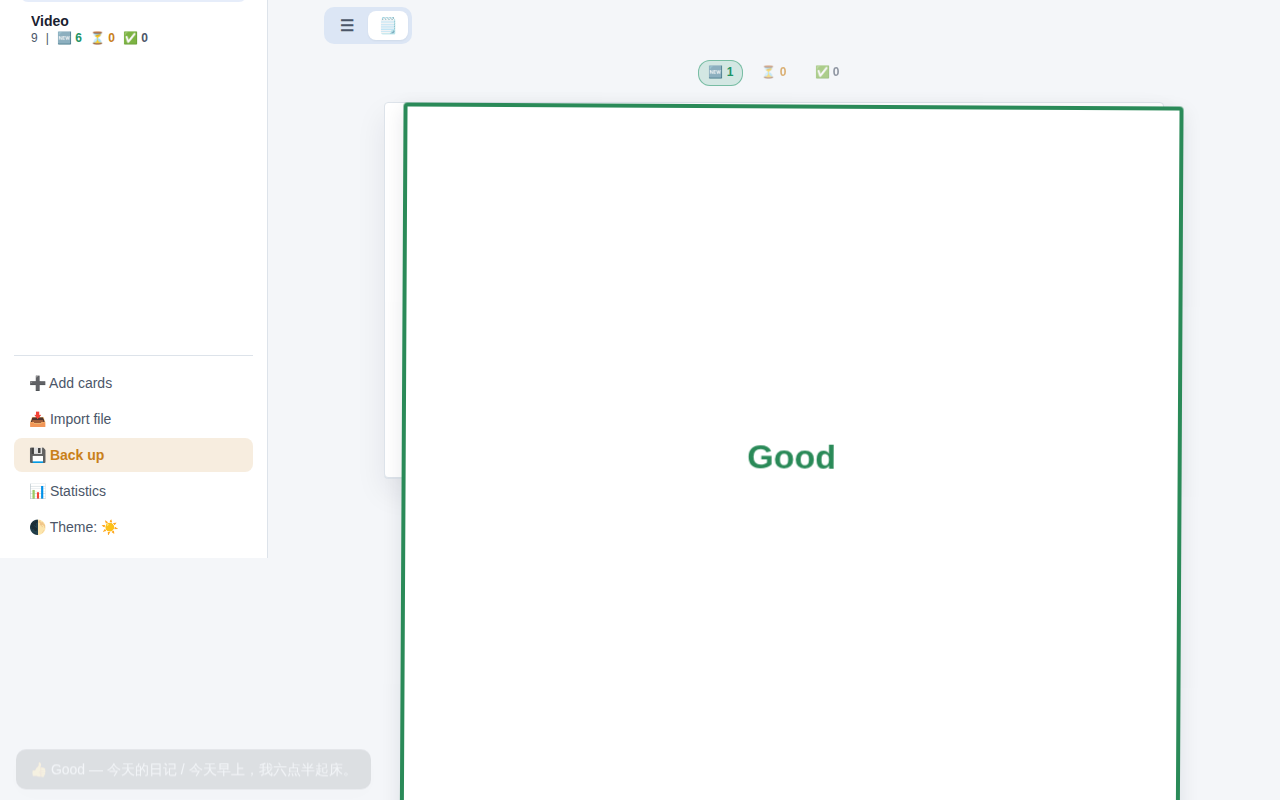
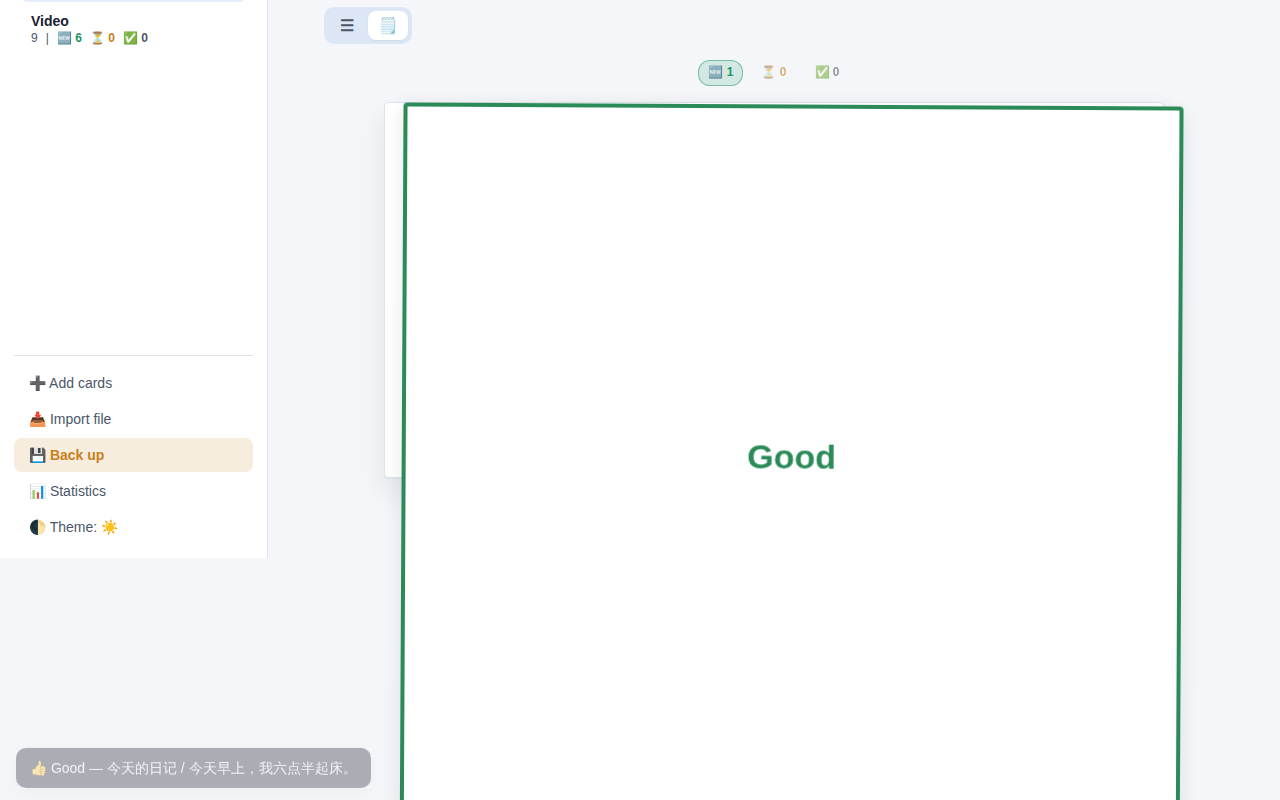
Playing card spotlit instead of a strip; green iMessage bubbles in Vocabulary
- Group and Listening: the card that plays keeps its colours and the
  others fade back, instead of a coloured strip behind it
- Vocabulary group answers use iMessage's green bubble, Lessons keep blue

Claude-Session: https://claude.ai/code/session_014V8q72mFTe1AjYmi4UdURH

Changed region(s): [[0.0, 0.9375, 0.3125, 1.0]]

diff --git a/index.html b/index.html
@@ -68,6 +68,7 @@ window.onYouTubeIframeAPIReady = function(){
     --imsg-in:#e9e9eb;
     --imsg-in-text:#000;
     --imsg-out:#0b84fe;
+    --imsg-sms:#34c759;
     --a-bg:#e9f5ee;
     --a-text:#1b6b44;
     --a-label:#2a8a58;
@@ -116,6 +117,7 @@ window.onYouTubeIframeAPIReady = function(){
       --imsg-in:#3b3b3d;
       --imsg-in-text:#fff;
       --imsg-out:#0a84ff;
+      --imsg-sms:#30d158;
       --a-bg:#1a2b25;
       --a-text:#8fdcb2;
       --a-label:#5ec893;
@@ -158,6 +160,7 @@ window.onYouTubeIframeAPIReady = function(){
     --imsg-in:#3b3b3d;
     --imsg-in-text:#fff;
     --imsg-out:#0a84ff;
+    --imsg-sms:#30d158;
     --a-bg:#1a2b25;
     --a-text:#8fdcb2;
     --a-label:#5ec893;
@@ -690,16 +693,16 @@ window.onYouTubeIframeAPIReady = function(){
   :is(#cardTable, #vocabTable).chat{display:block;padding:20px;overflow:visible;}
   :is(#cardTable, #vocabTable).chat :is(colgroup, thead){display:none;}
   :is(#cardTable, #vocabTable).chat tbody{display:flex;flex-direction:column;gap:10px;}
-  :is(#cardTable, #vocabTable).chat tbody tr{display:flex;flex-direction:column;gap:10px;padding:10px;border-radius:var(--radius);background:none;transition:background .15s ease;}
-  :is(#cardTable, #vocabTable).chat tbody tr.row-playing{background:var(--row-playing) !important;}
-  html.touch :is(#cardTable, #vocabTable).chat tbody tr.row-selected{background:var(--row-playing);}
+  :is(#cardTable, #vocabTable).chat tbody tr{display:flex;flex-direction:column;gap:10px;padding:10px;border-radius:var(--radius);transition:opacity .2s ease;}
+  :is(#cardTable, #vocabTable).chat tbody tr, :is(#cardTable, #vocabTable).chat tbody tr.row-playing, html.touch :is(#cardTable, #vocabTable).chat tbody tr.row-selected{background:none !important;}
+  :is(#cardTable, #vocabTable).chat tbody:has(tr.row-playing) tr:not(.row-playing, .edit-row), html.touch :is(#cardTable, #vocabTable).chat tbody:has(tr.row-selected) tr:not(.row-selected, .row-playing, .edit-row){opacity:.4;}
   html.touch :is(#cardTable, #vocabTable).chat tbody tr.row-selected > td:first-child{box-shadow:none;}
   :is(#cardTable, #vocabTable).chat tbody td{display:flex;border:0;padding:0;overflow:visible;}
   :is(#cardTable, #vocabTable).chat tbody td.a-col{justify-content:flex-end;}
   :is(#cardTable, #vocabTable).chat tbody tr.edit-row{display:block;padding:0;}
   :is(#cardTable, #vocabTable).chat tbody tr.edit-row td{display:block;}
   :is(#cardTable, #vocabTable).chat{--chat-bg:var(--surface);}
-  :is(#cardTable, #vocabTable).chat tbody tr.row-playing, html.touch :is(#cardTable, #vocabTable).chat tbody tr.row-selected{--chat-bg:var(--row-playing);}
+  #vocabTable.chat{--imsg-out:var(--imsg-sms);}
   :is(#cardTable, #vocabTable).chat tbody td.q-col, #vocabTable.chat tbody td:first-child{padding-left:10px;}
   :is(#cardTable, #vocabTable).chat tbody td.a-col{padding-right:10px;}
   :is(#cardTable, #vocabTable).chat .cell{position:relative;display:block;max-width:75%;margin:0;padding:10px 15px;font-size:20px;line-height:1.4;border-radius:20px;background:var(--imsg-in);color:var(--imsg-in-text);}
@@ -909,11 +912,10 @@ window.onYouTubeIframeAPIReady = function(){
   }
   .single-card-body.listen-batch{padding:10px;}
   .single-card-body.listen-batch:not(.edit-row){gap:0;}
-  .listen-pair{position:relative;display:flex;flex-direction:column;align-items:flex-start;justify-content:center;gap:5px;min-height:60px;padding:20px 20px 20px 90px;border-radius:10px;transition:background .15s ease, box-shadow .15s ease;}
+  .listen-pair{position:relative;display:flex;flex-direction:column;align-items:flex-start;justify-content:center;gap:5px;min-height:60px;padding:20px 20px 20px 90px;border-radius:10px;transition:opacity .2s ease;}
   .listen-pair:not(:has(.loop-time)){padding-left:20px;}
   .listen-pair + .listen-pair::before{content:"";position:absolute;top:0;left:90px;right:20px;border-top:1px solid var(--border);}
-  .listen-pair.row-playing{background:var(--accent-soft);box-shadow:0 0 0 4px var(--accent-soft);}
-  .listen-pair.row-playing::before, .listen-pair.row-playing + .listen-pair::before{display:none;}
+  .listen-batch:has(.listen-pair.row-playing) .listen-pair:not(.row-playing){opacity:.4;}
   .listen-batch .listen-pair .single-card-field{position:static;min-height:0;padding:0;background:none;border-radius:0;align-items:flex-start;}
   .listen-batch .listen-pair .cell{padding:0;text-align:left;}
   .listen-batch .listen-pair .single-card-q .cell > .loop-time:first-child{position:absolute;left:20px;top:50%;transform:translateY(-50%);display:flex;align-items:center;justify-content:center;width:50px;height:50px;margin:0;padding:0;border-radius:50%;font-size:12px;font-weight:600;}

diff --git a/README.md b/README.md
@@ -18,8 +18,8 @@ The whole app is one file, `index.html`. There is no build step and nothing to i
 | Mode | What it does |
 | --- | --- |
 | ☰ Full | The whole lesson as a list, for browsing and editing. No spaced repetition. A ＋ bar under the mode buttons (once the lesson has cards; a new, empty lesson shows the add form with its own ＋, and a lesson whose last card is moved or deleted opens Add cards, with the lesson picked, as Vocabulary opens Add vocabularies when its last word goes), in the logo's colour, shows how many cards the lesson has in front of the ＋ (such as 97 ＋) and adds a card at the top of the list (the same as the count and ＋ on the Vocabulary word list, at the same height). In a text lesson, clicking a card (its question or its answer) copies the whole card, question and answer together, in one click, and pointing at either part shades both. In a text lesson the list is a notebook page: white ruled paper with a red margin (on a phone there is no margin line, and the text sits a little further in from both edges), each question as a heading in the lesson colour with its answer written on the lines below, and the editor puts the short question on one line above a large answer box, without a dictionary. No table has a column of ✎, ✕ or 字 buttons, on a computer or a phone, in Lessons or in Vocabulary: point at a card (or select it on a phone) and press E to edit it, Delete to delete it or, in a text lesson, V to move it to Vocabulary, flying off as the logo (on a phone the bar of copy, ✎, ✕ and 字 described below does the same): the question becomes a word, the answer its meaning, and words filed under the card go along; if the sentence is already a word, the card just leaves the lesson. Undo brings it back. In every editor a coloured line starts each box: blue for the question, green for the answer, grey for the notes, and the answer box fits its text. |
-| Group | Due cards three at a time (the last two groups of a session are balanced, so 4 left become 2 + 2), each group listed in video-time order (0:05, 0:10, 0:15), so its clips play like a stretch of the video. Shown in video lessons. The three are laid out as a chat, not a table, in iMessage bubbles: each card's question is a grey bubble on the left (with its time badge) and its answer a blue bubble answering it on the right, each with its small curled tail; a side that is not shown yet is a bubble on one line with ··· (after the time badge on a question), without any animation. The line of the card that is playing (or picked on a phone) is lit up behind its two bubbles. Once a card's answer is shown, its dictionary panel also shows the card's notes under the meaning, in the same size as the notes on a flashcard. Click the notes (tap them on a phone) to edit them right there, like the answer (also tapped on a phone): Return saves, Shift + Return starts a new line, Esc cancels, and undo brings the old notes back. The table of three works the sound as before (▶ plays the group, 1 – 3 loops one row). Under it each sentence has its own dictionary panel, and working in a panel (clicking or selecting in it, clicking its stroke order or its dictionary, editing it) means you are on that one sentence: the sound switches by itself to playing just that sentence over and over, like pressing its number. Since everything in a panel reacts to a click, pointing at its sentence, meaning or notes shows a hand, as everywhere in the app that a click does something; the text cursor appears only inside a box you are typing in. This works every time, not just once: after pressing 1 – 3, Space or ▶ for something else, going back to work in a panel loops that panel's sentence again, and moving to another panel switches to that sentence. The one exception: if you stop the sound altogether (Space, ▶, the sentence's number or its badge in the panel) while working in a panel, it stays quiet as you keep working in that same panel; moving to another panel, or clicking in the table and coming back, plays again. For that case the sentence in each panel starts with the same badge as its row in the table: the video time (1:09), or 🔊 for a card without video. Clicking it loops that sentence, or stops it when it is the one looping, and it lights up while the sentence plays. In the table too, a card without video has 🔊 in front of its question, as in Vocabulary's Group, to read it aloud over and over (click again to stop). |
-| Listening | Cards come in groups, by the same rule as Group (three at a time, the last two balanced, each group in video-time order), all in one card frame laid out like a track list: each card is a line with a round time button on the left (0:05; tap it to play that clip; it fills with the lesson colour and pulses while it plays, and its line is lit up), its question and, under it, its answer in green on the right, both in the same size and plain (not bold) type, the lines divided by thin rules. Before they are shown, the question and the answer are grey bars about as long as the hidden text, with a soft shimmer, so you can tell how much you are listening for. The clips play first, in turn; Space shows all three; each card gets its dictionary panel underneath, the same panel as in Group (the card's time and question, its answer and notes, the stroke order and the dictionary); grading grades all three (or just the card you point at, which then flies off on its own), Delete deletes all three (or the card you point at), E edits the card you point at, and the copy button copies all three. The three stay together until each is graded; a session's last card can come on its own. Shown when the lesson has video cards. |
+| Group | Due cards three at a time (the last two groups of a session are balanced, so 4 left become 2 + 2), each group listed in video-time order (0:05, 0:10, 0:15), so its clips play like a stretch of the video. Shown in video lessons. The three are laid out as a chat, not a table, in iMessage bubbles: each card's question is a grey bubble on the left (with its time badge) and its answer a blue bubble answering it on the right, each with its small curled tail; a side that is not shown yet is a bubble on one line with ··· (after the time badge on a question), without any animation. There is no coloured strip for the card that is playing: its two bubbles stay as they are and the other cards fade back while it plays (on a phone the card you picked stays bright the same way), and its time badge fills with the lesson colour. Once a card's answer is shown, its dictionary panel also shows the card's notes under the meaning, in the same size as the notes on a flashcard. Click the notes (tap them on a phone) to edit them right there, like the answer (also tapped on a phone): Return saves, Shift + Return starts a new line, Esc cancels, and undo brings the old notes back. The table of three works the sound as before (▶ plays the group, 1 – 3 loops one row). Under it each sentence has its own dictionary panel, and working in a panel (clicking or selecting in it, clicking its stroke order or its dictionary, editing it) means you are on that one sentence: the sound switches by itself to playing just that sentence over and over, like pressing its number. Since everything in a panel reacts to a click, pointing at its sentence, meaning or notes shows a hand, as everywhere in the app that a click does something; the text cursor appears only inside a box you are typing in. This works every time, not just once: after pressing 1 – 3, Space or ▶ for something else, going back to work in a panel loops that panel's sentence again, and moving to another panel switches to that sentence. The one exception: if you stop the sound altogether (Space, ▶, the sentence's number or its badge in the panel) while working in a panel, it stays quiet as you keep working in that same panel; moving to another panel, or clicking in the table and coming back, plays again. For that case the sentence in each panel starts with the same badge as its row in the table: the video time (1:09), or 🔊 for a card without video. Clicking it loops that sentence, or stops it when it is the one looping, and it lights up while the sentence plays. In the table too, a card without video has 🔊 in front of its question, as in Vocabulary's Group, to read it aloud over and over (click again to stop). |
+| Listening | Cards come in groups, by the same rule as Group (three at a time, the last two balanced, each group in video-time order), all in one card frame laid out like a track list: each card is a line with a round time button on the left (0:05; tap it to play that clip; it fills with the lesson colour and pulses while it plays, and the other lines fade back, with no coloured strip), its question and, under it, its answer in green on the right, both in the same size and plain (not bold) type, the lines divided by thin rules. Before they are shown, the question and the answer are grey bars about as long as the hidden text, with a soft shimmer, so you can tell how much you are listening for. The clips play first, in turn; Space shows all three; each card gets its dictionary panel underneath, the same panel as in Group (the card's time and question, its answer and notes, the stroke order and the dictionary); grading grades all three (or just the card you point at, which then flies off on its own), Delete deletes all three (or the card you point at), E edits the card you point at, and the copy button copies all three. The three stay together until each is graded; a session's last card can come on its own. Shown when the lesson has video cards. |
 | 🗒 Speaking | Laid out as an exam paper, one question at a time, for speaking practice of any kind: a white ruled sheet headed with the lesson's name, Question 2 of 5 and a clock that runs while you answer out loud; the heading stays in the same place when the answer is shown, so nothing jumps. The question is numbered, in the lesson colour; the ruled lines below it show ···, and the answer comes in two steps, the same with a click (or tap) on the paper, Space, Return or the phone's button (which reads Hint, then Show): the first writes a hint on those lines, the meanings of the lesson's words in the answer, in the order they come, without the words themselves, in the paper's normal ink, numbered with the numbers lined up on the left (the same in Notes); the second writes the answer there. A question without notes skips the hint and shows the answer at once. The clock is not clickable. Before the answer is shown the hint is the only help. A text lesson (the kind studied with Speaking) shows no pinyin or reading when you point at (or tap) its questions and answers, anywhere: not on the Speaking paper and not in the ☰ Full notebook. The answer then comes on the left, with the lesson's words highlighted like a highlighter pen, and a numbered Notes list of those words and meanings on the right, divided from it by a red line; Notes takes only as much width as its lines need (up to a little under half the paper), so short notes leave the answer more room and long ones are not broken over two lines without need, and each note sits a little apart from the next (on a phone, Notes comes under the answer); the clock stops. As in Listening, once the answer is shown it stays until you grade: Space, a click on the paper and the phone's button (greyed out) do nothing more. ← or → grades, as everywhere. The paper takes the normal dark background in the dark theme. Everything the question does elsewhere, the answer does here: once the answer is shown, the foot of the paper, across its whole width under the answer and Notes, shows the stroke order of its characters and the dictionary for it (there is no separate panel; the paper's sections sit 32 px apart and its dictionary is 360 px tall, like the others, the dictionary moves with the page as you scroll, and the dictionaries of the current and next questions load while the question is still showing). Pointing at the answer keeps its ruled lines and shows a hand, since clicking it opens the card editor, as in Listening, and selecting part of the answer on the paper and pressing Shift adds it as a word. On a computer there are no buttons for the card: E edits it, Delete deletes it and V moves it to Vocabulary; on a phone copy, ✎, ✕ and 字 are in the bar above the bottom buttons. A card whose answer is a translation of its question (the two are in different languages) belongs in Vocabulary: when one comes up in Speaking, a box in the middle of the screen says so and offers Move card, Move all (when the lesson has more such cards; they all go at once) or Cancel (Enter moves, Esc cancels; other keys do nothing while it is open); it asks once per card. There is no sound button, and Space does nothing once the answer is shown. In a text lesson the card editor does the same with the answer box: it highlights the words, Shift adds a selected part as a word, and the dictionary under it translates the answer. Shown in lessons without a video; it uses the same spaced repetition as Group. |
 
 In a video lesson the video sits in a player bar as wide as the lesson, fully transparent, also while it is pinned over the cards: the video plays in the small picture on the left, beside its title and a progress bar you can drag with the time and length. Click the picture and the video grows out of it, with a genie effect, into a large player as wide as the lesson, shown in full in every mode (Listening covers only the small picture); the button in its corner shrinks it back into the bar. The bar stays pinned at the top as you scroll; the large player scrolls away with the page while the mode buttons stay pinned, and making it large (with the picture or Y) scrolls the page back up to it. ▶ and the speed beside the mode buttons work as before. The mode buttons have no tooltips.
@@ -86,7 +86,7 @@ Switch from **Lessons** to **Vocabulary** with the 字 button at the top. Words 
 | Mode | What it does |
 | --- | --- |
 | ☰ List | Every word of the lesson, for browsing and editing, without the New, Due and Done counts: the bar at the top shows the number of words and, with ＋, adds a word; point at a word (or tap it on a phone) to see its pinyin or reading, and press E to edit it or Delete to delete it. No grading. |
-| 📑 Group | Due words three at a time, each group in the order of their clips in the video, like Group mode in Lessons and laid out the same way, as a chat in iMessage bubbles: the word in a grey bubble on the left, its meaning in a blue bubble on the right, a side not shown yet as a bubble with ···; shown once the lesson has more than 10 words. Click a word to edit it, tap a row (phone) or point at it (computer) to grade just that word, the YouTube or 🔊 button plays the group's words in turn, and the YouTube or 🔊 mark before each word plays just that word (and turns into ⏸ while it plays). |
+| 📑 Group | Due words three at a time, each group in the order of their clips in the video, like Group mode in Lessons and laid out the same way, as a chat in iMessage bubbles: the word in a grey bubble on the left, its meaning in a green bubble on the right (green like the Vocabulary colour, as iMessage's green bubbles; Lessons use the blue ones), a side not shown yet as a bubble with ···; shown once the lesson has more than 10 words. Click a word to edit it, tap a row (phone) or point at it (computer) to grade just that word, the YouTube or 🔊 button plays the group's words in turn, and the YouTube or 🔊 mark before each word plays just that word (and turns into ⏸ while it plays). |
 | 🗃 Flashcards | One word at a time; tap the card to flip it sideways (except on the stroke order, which you can tap to draw a character again). Front and back are the same size, and the card is only as tall as what is on it (the taller of the two sides, at least 200 px), so it does not leave a lot of empty space; it never grows past what the screen allows: once the toolbar is pinned at the top, at most down to 40 px above the bottom bars (or the bottom of the window), on a phone held upright as on a computer. It refits when the window or the card's content changes (always a whole, even number of pixels), and the page below it ends there too, so there is nothing to scroll down to. The card keeps that size when it turns, so nothing grows or jumps after the flip; if the back ever holds more than fits (very long notes), it scrolls inside the card, starting at the top each time. There is no dictionary on a flashcard: the back holds the sentence the word comes from with the word highlighted and its meaning, the word's notes, and the stroke order, centred on the card, with the same sizes, margins, gaps and highlight as a dictionary panel in Group. On a phone, copy, ✎ and ✕ for the word sit in the bar above the bottom buttons, never on the card; on a computer, E edits and Delete deletes the word. The next word's card is prepared out of sight underneath, so it is ready when it comes up. Turning the card back does not scroll the page to the top. |
 
 The mode buttons have no tooltips, and Vocabulary has no dictionary button. 🔊 reads the sentence that really holds the word (also a sentence inside a long answer), or the word itself when no sentence has it.
